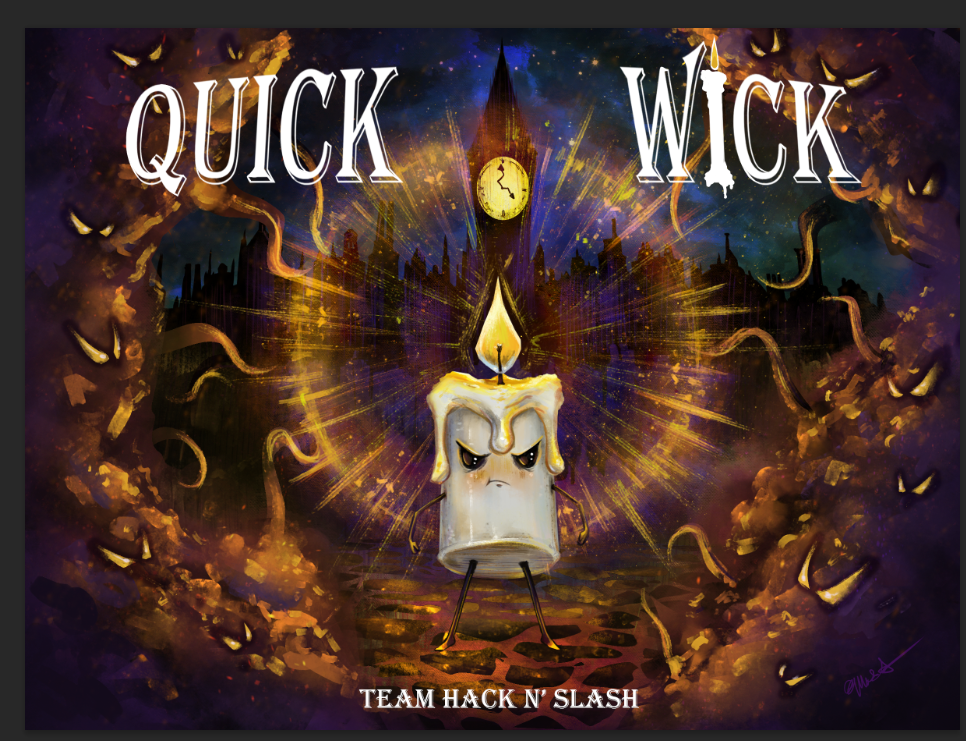
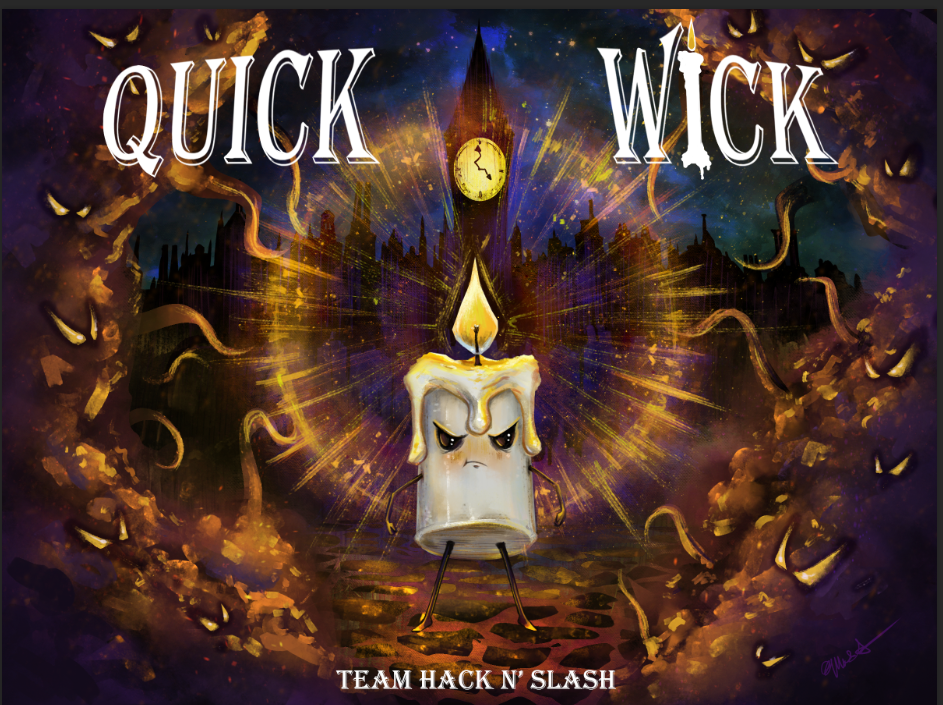
added new images

diff --git a/index.html b/index.html
@@ -73,7 +73,7 @@
 			</div>
 			<div class="servicesBx">
 				<img src="unityicon.png">
-				<h2>Unity 2D</h2>
+				<h2>Unity</h2>
 				<p>Excellent understanding and application of the fundamental code and design for the core game design features in C#. Experience with producing a roadmap and outlining a scope for projects. Experience Troubleshooting and debugging code to ensure working applications.</p>	
 			</div>
 			<div class="servicesBx">
@@ -91,7 +91,7 @@
 		</div>
 		<div class="content">
 			<div class ="workBx">
-				<img src="NotBirds.jpg">
+				<img src="P_Sol1.png">
 				
 			</div>
 			<div class ="workBx">
@@ -103,18 +103,17 @@
 			
 			</div>
 			<div class ="workBx">
-				<img src="Employee_Angular.png">
+				<img src="QW_MainMenu3.png">
 				
 			</div>
+			
 
 		</div>
 		<div class="playNow">
 			<a href="https://www.behance.net/mattsutton2" class="Workbtn">View On Behance</a>
 			
 		</div>
-		<div class="playNow">
-			<a href="https://gearsofsmores.github.io/PlatformerGame/Build/index.html" class="Workbtn">Play Game</a>	
-		</div>
+		
 		<div class="playNow">
 			<a href="https://github.com/GearsOfSmores" class="Workbtn">GitHub Link</a>	
 		</div>
